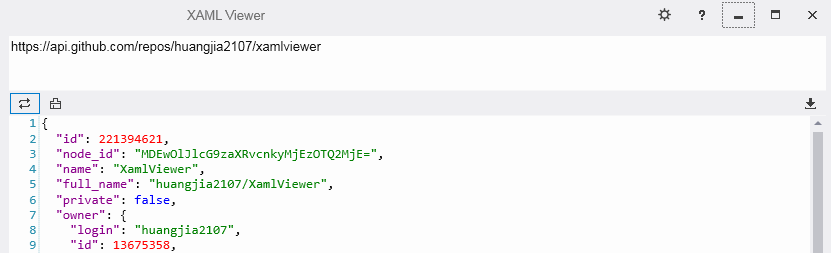
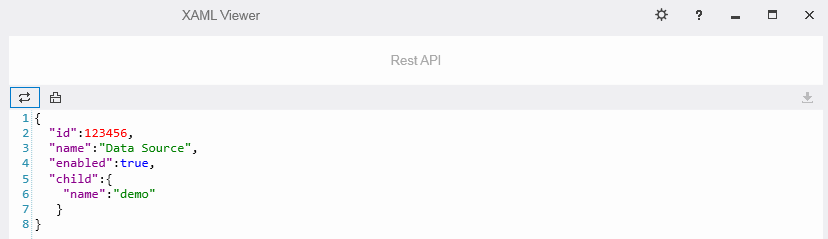
update data source description

diff --git a/README.md b/README.md
@@ -34,8 +34,8 @@ xmlns:controls="clr-namespace:MyControl.Controls;assembly=MyControl"
 ![DataSource](images/DataSource.png)
 ``` xml
 <TextBlock Tag="{Binding id}"
-           IsEnabled="{Binding private}"
-           Text="{Binding owner.login}"/>
+           IsEnabled="{Binding enabled}"
+           Text="{Binding child.name}"/>
 ```
 ### 2. Array
 
@@ -44,7 +44,9 @@ xmlns:controls="clr-namespace:MyControl.Controls;assembly=MyControl"
 <ItemsControl ItemsSource="{Binding .}">
     <ItemsControl.ItemTemplate>
         <DataTemplate>
-            <TextBlock Text="{Binding tag_name}"/>
+            <TextBlock Tag="{Binding id}"
+			           IsEnabled="{Binding enabled}"
+			           Text="{Binding name}"/>
         </DataTemplate>
     </ItemsControl.ItemTemplate>
 </ItemsControl>
